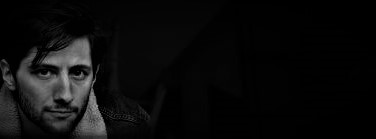
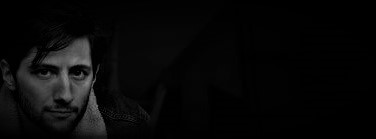
citaBarone

Changed region(s): [[0.0, 0.2878, 0.2926, 1.0], [0.0, 0.6619, 0.0585, 0.9496], [0.0, 0.4317, 0.0293, 0.4604]]

diff --git a/public/css/portada.css b/public/css/portada.css
@@ -36,7 +36,7 @@
     width: 25vw;
 }
 blockquote {
-    background: url("../img/barone_cita2.jpg") no-repeat;
+    background: url("../img/barone_cita.jpg") no-repeat;
     background-size: cover;
     border-left: 10px solid orange;
     width: 50vw;
